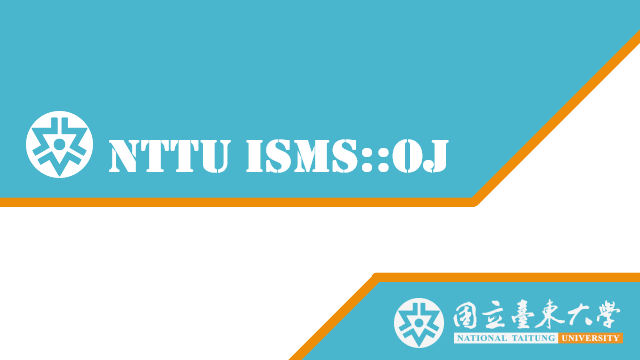
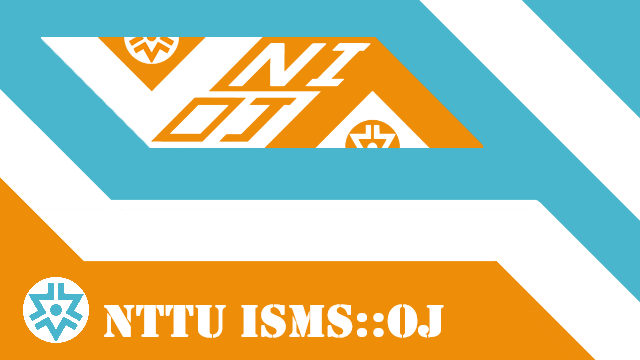
更改啟動畫面

diff --git a/NTTU_ISMS_OJ/NTTU_ISMS_OJ.py b/NTTU_ISMS_OJ/NTTU_ISMS_OJ.py
@@ -43,10 +43,10 @@ class bootup_GUI:
     pic_bg = Image.open(pic_bg_path)
     pic = ImageTk.PhotoImage(pic_bg)
     tk.Label(win_boot, image=pic).place(x=0, y=0)
-    tk.Label(win_boot, text=("Version " + ver), font=("微軟正黑體", 10)).place(x=5, y=335)
+    # tk.Label(win_boot, text=("Version " + ver), font=("微軟正黑體", 10)).place(x=5, y=335)
 
     def destroy():
-        time.sleep(1)
+        time.sleep(3.5)
         win_boot.quit()
         win.deiconify()
 
